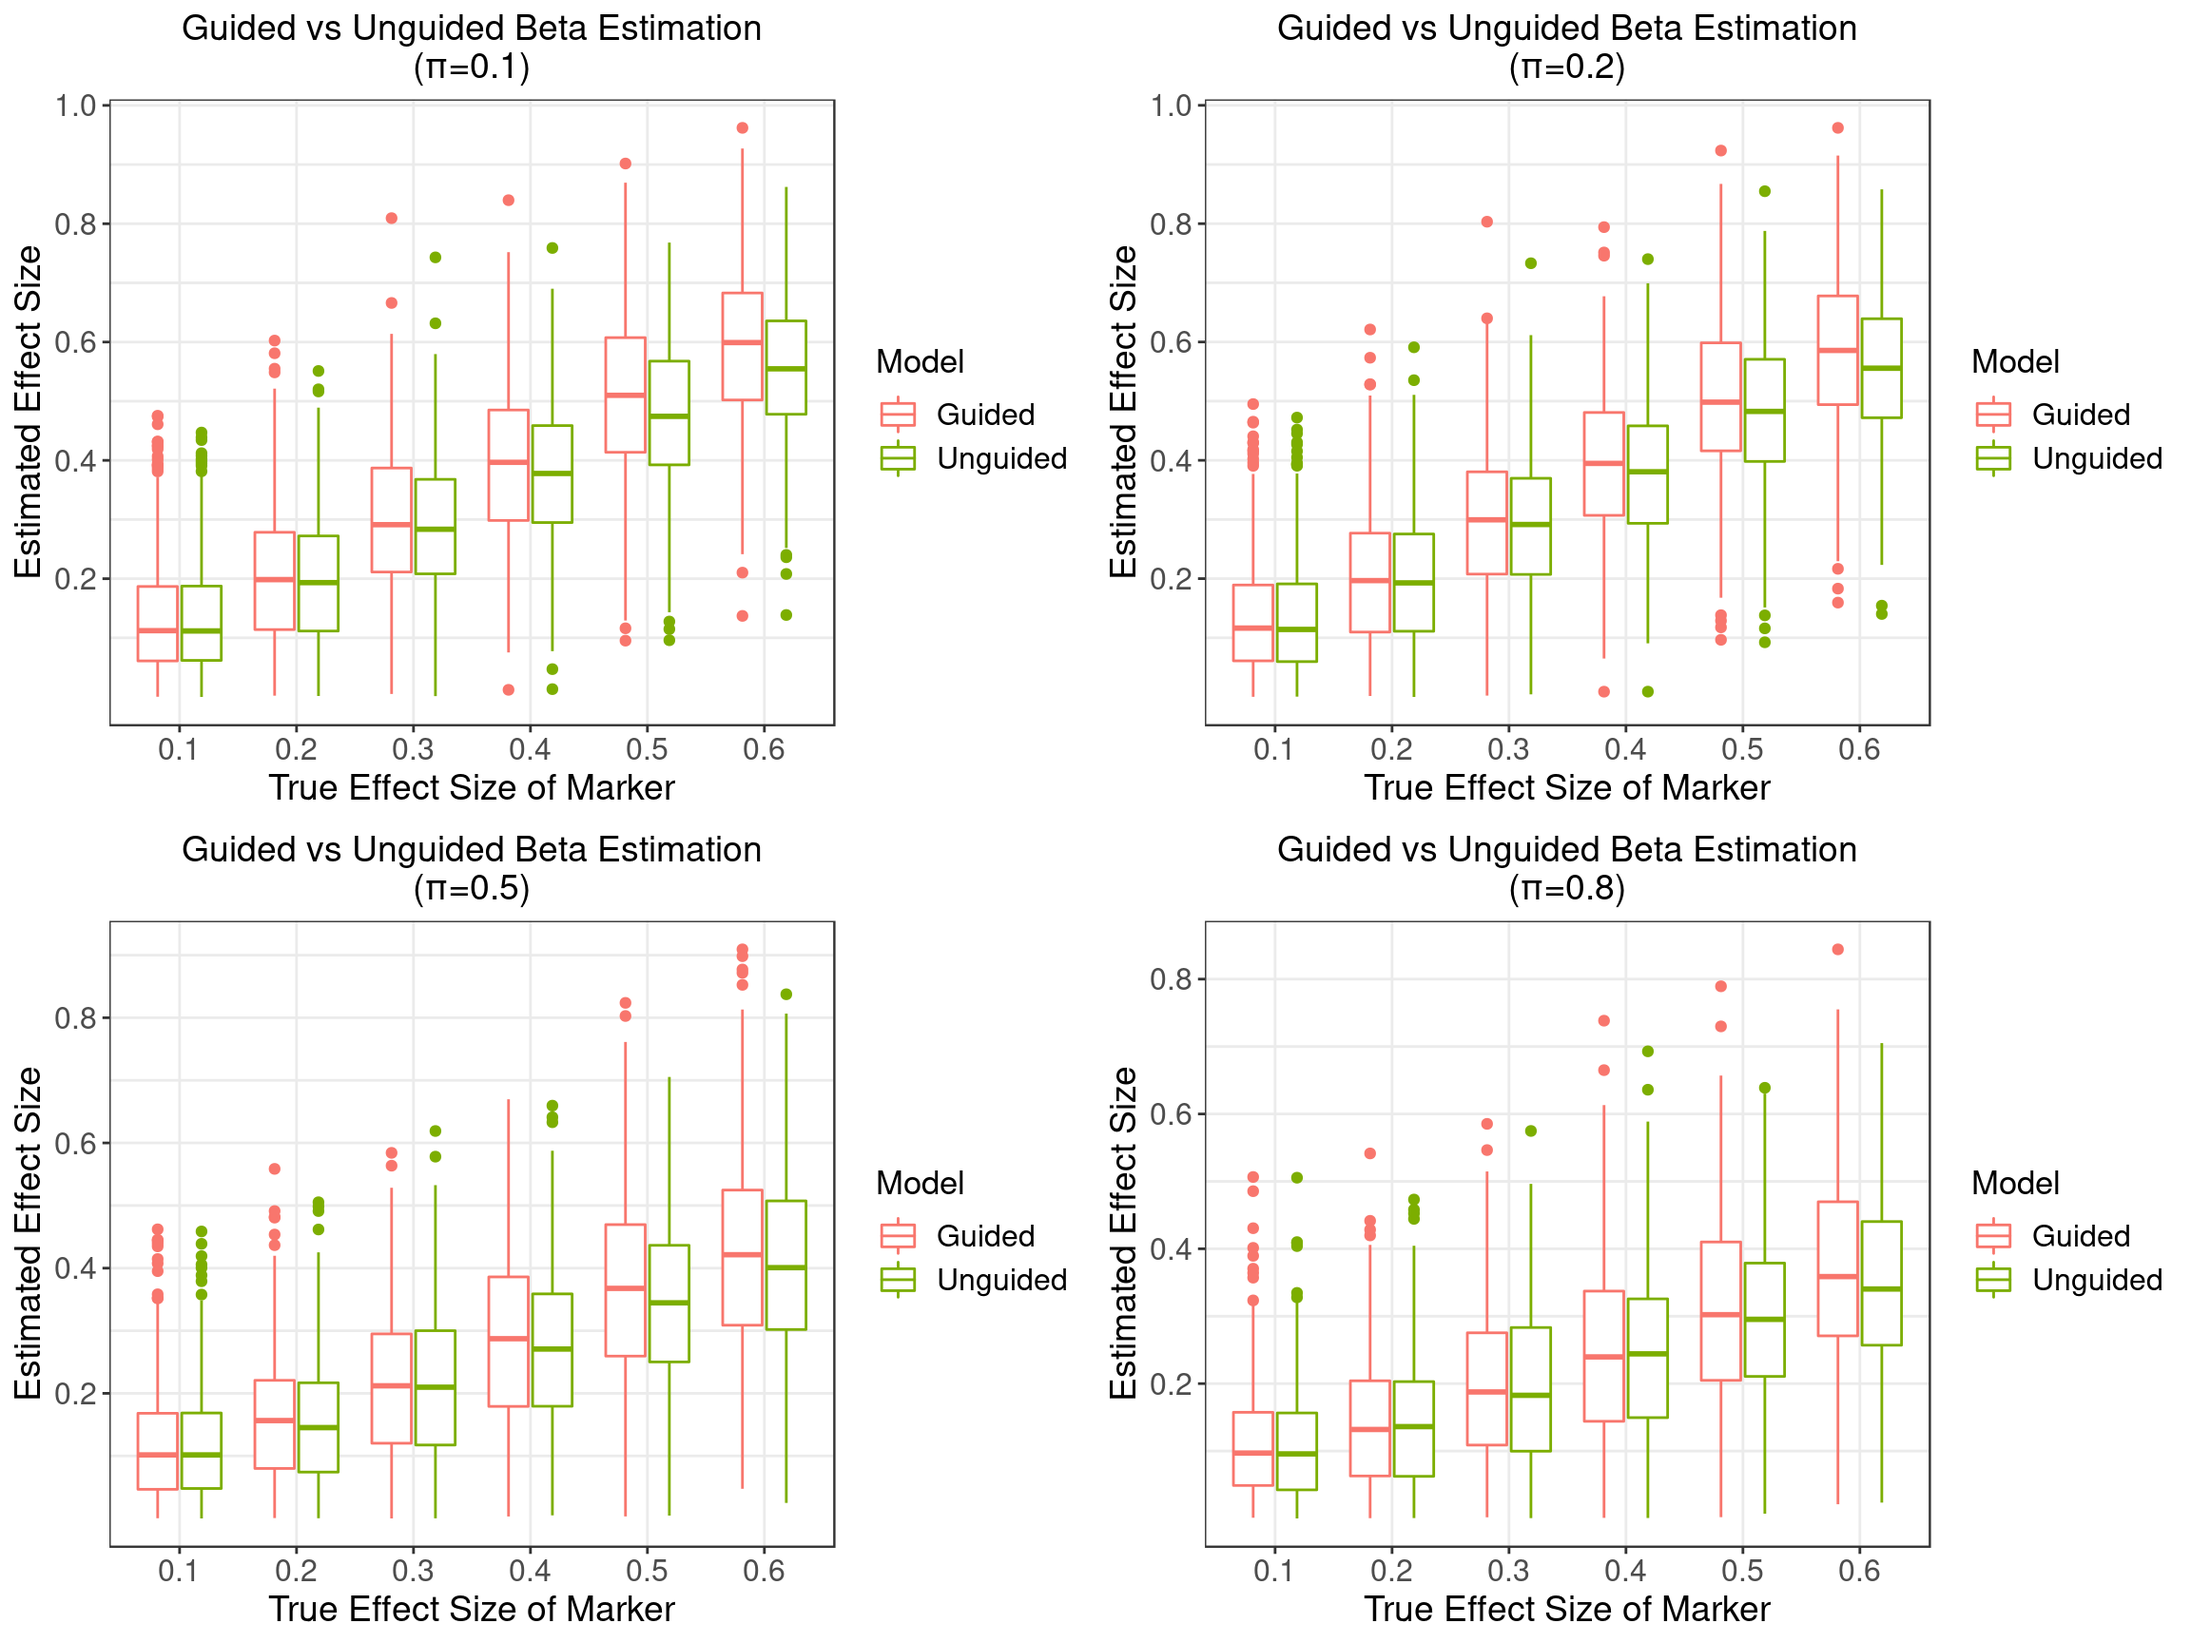
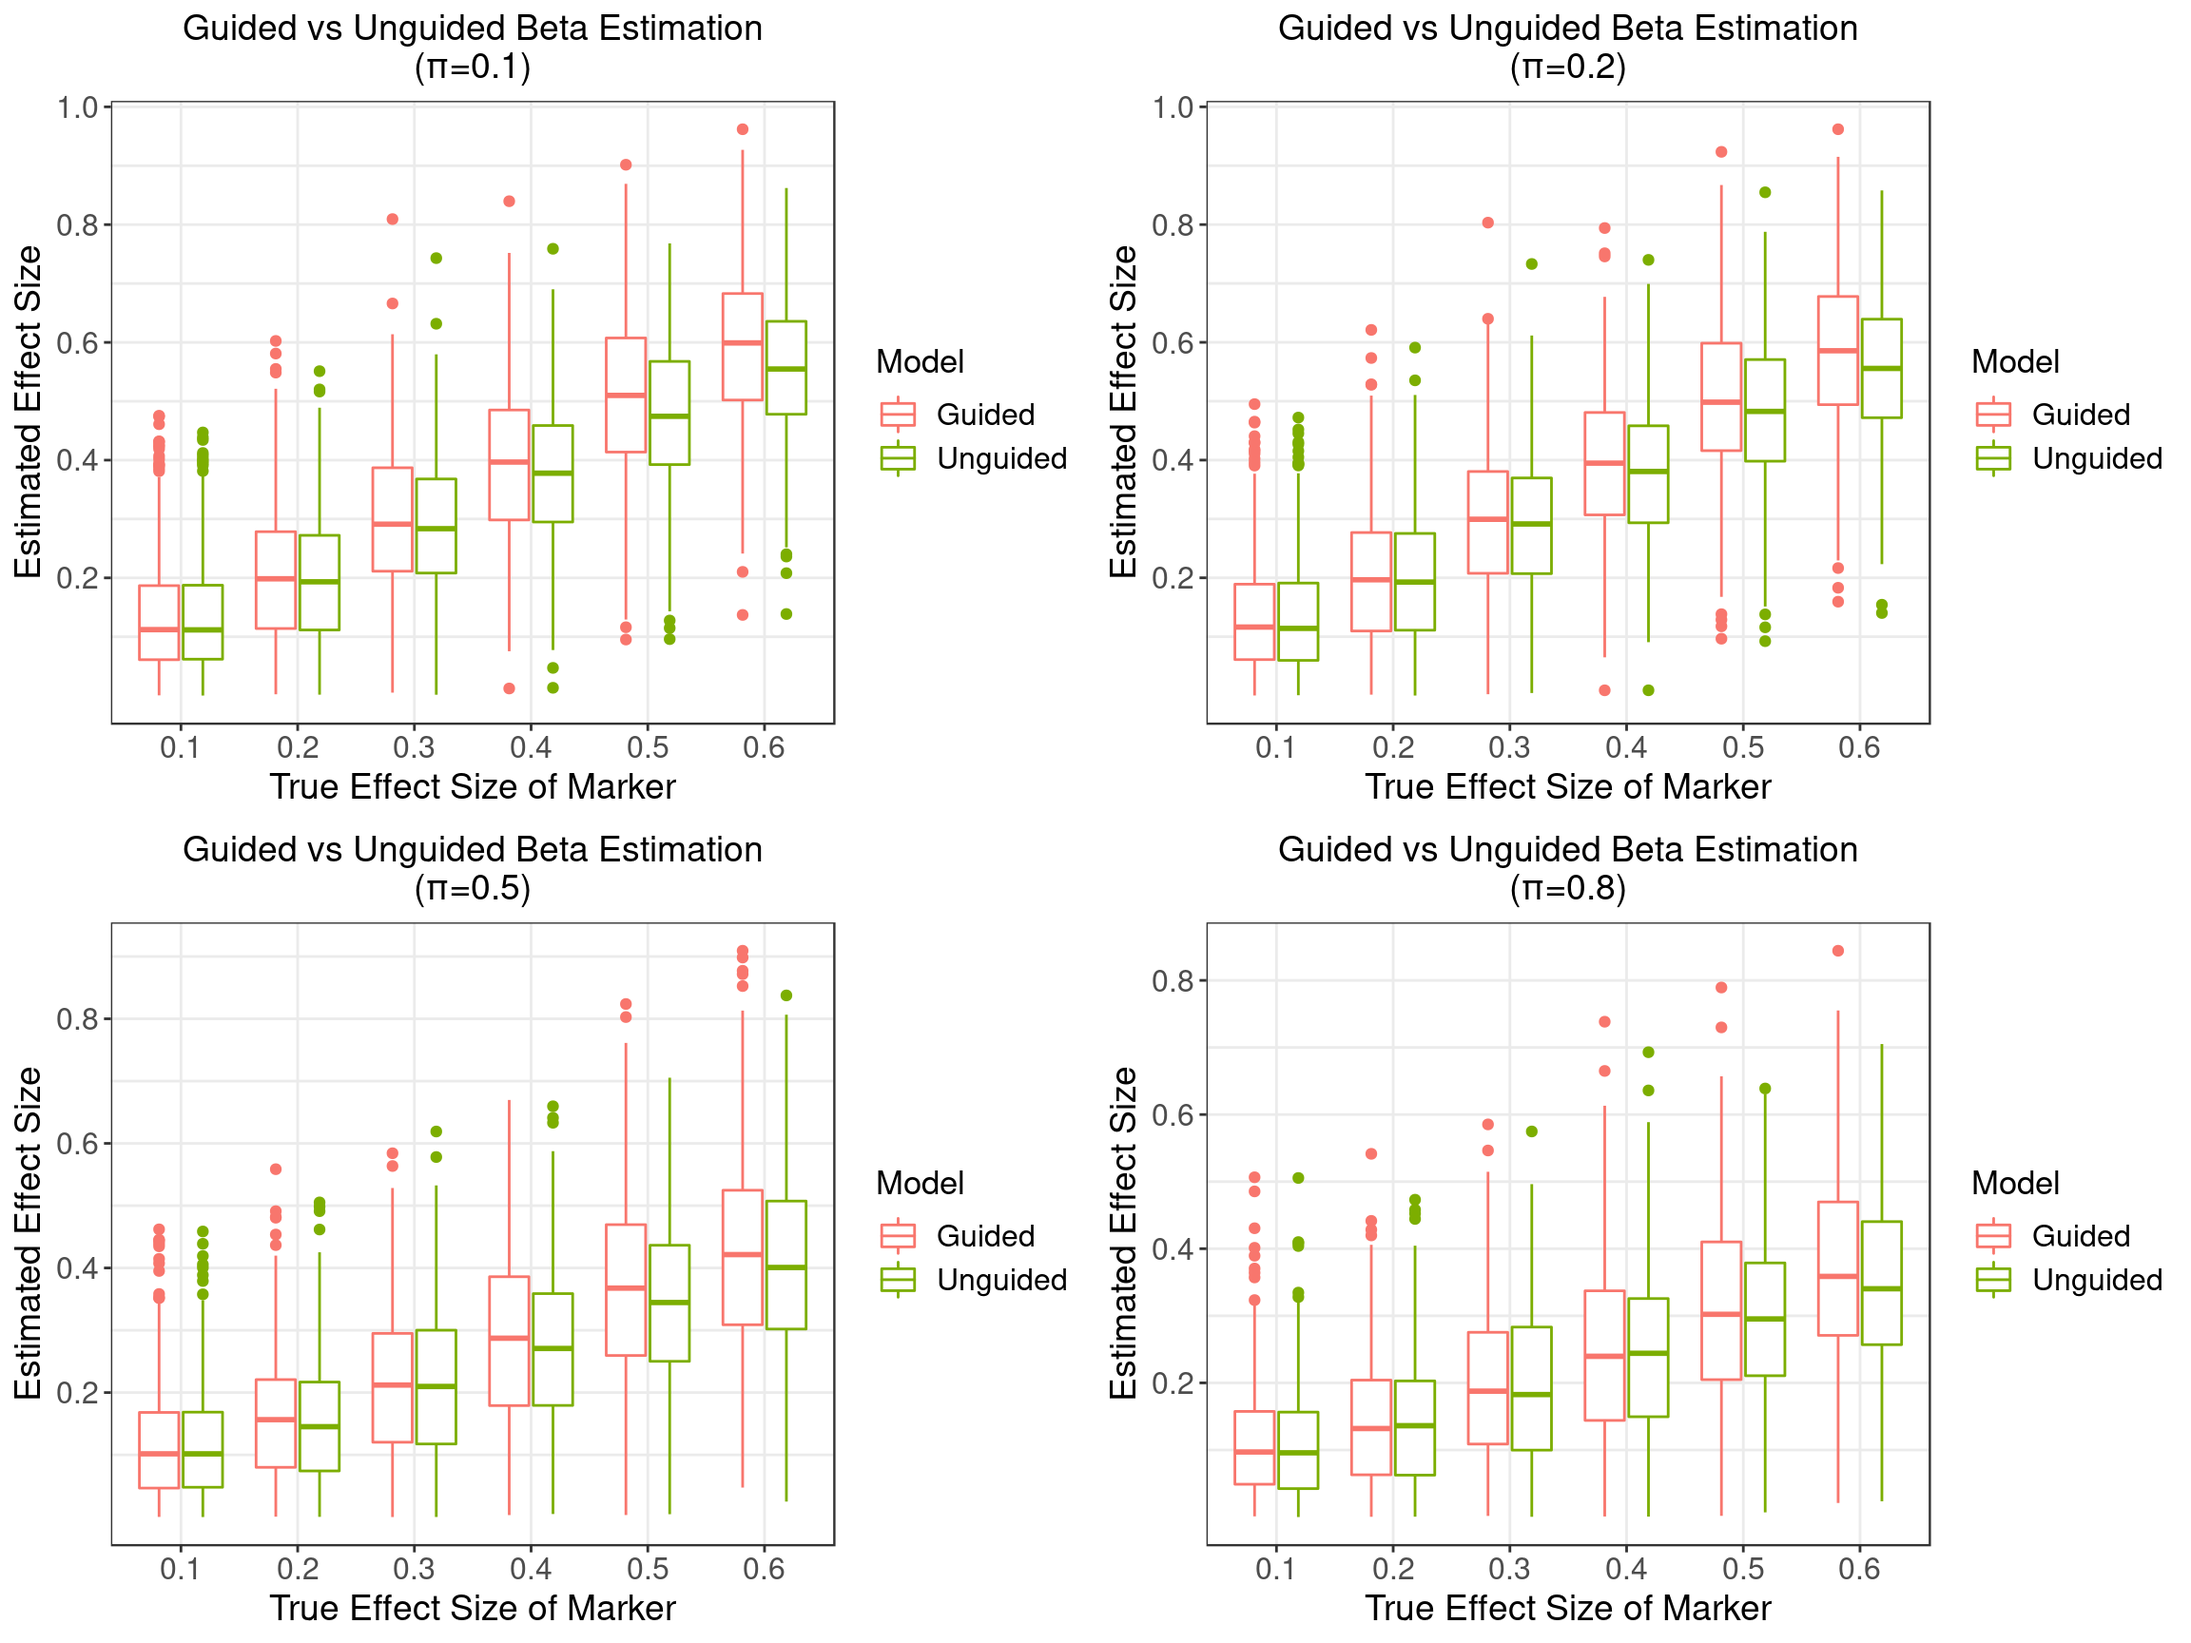
realistic simulations

diff --git a/docs/Simulation_realistic_settings.html b/docs/Simulation_realistic_settings.html
@@ -296,7 +296,7 @@ div.tocify {
 
 
 <h1 class="title toc-ignore">Evaluation of GSFA on Simulated Data</h1>
-<h3 class="subtitle"><em>– Multiple Markers, Multiple Factors</em></h3>
+<h3 class="subtitle"><em>– Realistic Settings</em></h3>
 <h4 class="author"><em>Yifan Zhou (<a href="mailto:zhouyf@uchicago.edu">zhouyf@uchicago.edu</a>)</em></h4>
 <h4 class="date"><em>2021-03-31</em></h4>
 
@@ -305,9 +305,9 @@ div.tocify {
 
 <div id="simulation-settings" class="section level1">
 <h1><span class="header-section-number">1</span> Simulation Settings</h1>
-<p>We simulated our data in a bottom-up fashion: <span class="math display">\[G_{im} \overset{i.i.d.}{\sim} \text{Bern}(0.2),\hspace{3mm} \Phi_{ik} \overset{i.i.d.}{\sim} N(0, 1) \Rightarrow Z = G \beta + \Phi\]</span> <span class="math display">\[ F_{jk} \sim \text{Bern}(\pi_j),\hspace{3mm}  U_{jk} \sim N(0, \sigma_w^2) \Rightarrow W = F \odot U\]</span> <span class="math display">\[E_{ij} \sim N(0,\psi_j), Z, W \Rightarrow Y = ZW^T+E\]</span> <span class="math inline">\(G \in \mathbb{R}^{N \times M}, \beta \in \mathbb{R}^{M \times K}, Z \in \mathbb{R}^{N \times K}, W \in \mathbb{R}^{P \times K}, Y \in \mathbb{R}^{N \times P}.\)</span></p>
+<p>We simulated our data in a bottom-up fashion: <span class="math display">\[G_{im} \overset{i.i.d.}{\sim} \text{Bern}(0.1),\hspace{3mm} \Phi_{ik} \overset{i.i.d.}{\sim} N(0, 1) \Rightarrow Z = G \beta + \Phi\]</span> <span class="math display">\[ F_{jk} \sim \text{Bern}(\pi_j),\hspace{3mm}  U_{jk} \sim N(0, \sigma_w^2) \Rightarrow W = F \odot U\]</span> <span class="math display">\[E_{ij} \sim N(0,\psi_j), Z, W \Rightarrow Y = ZW^T+E\]</span> <span class="math inline">\(G \in \mathbb{R}^{N \times M}, \beta \in \mathbb{R}^{M \times K}, Z \in \mathbb{R}^{N \times K}, W \in \mathbb{R}^{P \times K}, Y \in \mathbb{R}^{N \times P}.\)</span></p>
 <p>For simulation cases in this report,</p>
-<p>Sample size <span class="math inline">\(N = 400\)</span>, gene number <span class="math inline">\(P = 500\)</span>, factor number <span class="math inline">\(K = 10\)</span>, and guide/marker number <span class="math inline">\(M = 6\)</span>;<br />
+<p>Sample size <span class="math inline">\(N = 4000\)</span>, gene number <span class="math inline">\(P = 6000\)</span>, factor number <span class="math inline">\(K = 10\)</span>, and guide/marker number <span class="math inline">\(M = 6\)</span>;<br />
 <span class="math inline">\(\sigma_w^2 = 0.5\)</span>, matrix <span class="math inline">\(\beta\)</span> takes the following form:</p>
 <span class="math display">\[\begin{pmatrix}
 0.1 &amp; 0 &amp; 0 &amp; 0 &amp; 0 &amp; 0 &amp; 0 &amp; 0 &amp; 0 &amp; 0 \\
@@ -319,24 +319,24 @@ div.tocify {
 \end{pmatrix}\]</span>
 <p>The first 6 factors are each associated with a guide, with the effect sizes varying from 0.1 to 0.6, while the last 4 factors are not associated with any guides.</p>
 <p><strong>We explored 4 cases when the density parameter <span class="math inline">\(\pi_j\)</span> is the same across <span class="math inline">\(j\)</span> but takes a value from 0.1, 0.2, 0.5 to 0.8.</strong></p>
-<p>Under each scenario, 500 random datasets were simulated, and both guided and unguided GSFA models were performed on each dataset for 1000 iterations starting from SVD initialization; posterior means were averaged over the last 500 iterations.</p>
+<p>Under each scenario, 500 random datasets were simulated, and both guided and unguided GSFA models were performed on each dataset for 2000 iterations starting from SVD initialization; posterior means were averaged over the last 1000 iterations.</p>
 </div>
 <div id="estimation-of-effect-sizes-betas" class="section level1">
 <h1><span class="header-section-number">2</span> Estimation of Effect Sizes (<span class="math inline">\(\beta\)</span>s)</h1>
-<p><img src="Simulation_multi_markers_n_factors.beta_0.1_0.6_files/figure-html/gridplot_beta_reg-1.png" width="1152" style="display: block; margin: auto;" /></p>
+<p><img src="Simulation_realistic_settings_files/figure-html/gridplot_beta_reg-1.png" width="1152" style="display: block; margin: auto;" /></p>
 </div>
 <div id="estimation-of-factors-zs" class="section level1">
 <h1><span class="header-section-number">3</span> Estimation of Factors (<span class="math inline">\(Z\)</span>s)</h1>
 <p>We would like to evaluate how different our estimation of the factor matrix, <span class="math inline">\(\hat{Z}\)</span>, is from the true value <span class="math inline">\(Z\)</span>.<br />
 Since the order of latent factors is non-identifiable, we focus on <span class="math inline">\(ZZ^T\)</span> and evaluate its estimation error using <span class="math inline">\(||\hat{Z}\hat{Z}^T - ZZ^T||_F/N\)</span>, where <span class="math inline">\(||\cdot||_F\)</span> is the Frobenius norm, and <span class="math inline">\(N\)</span> is the number of rows (samples) in <span class="math inline">\(Z\)</span>.</p>
-<p><img src="Simulation_multi_markers_n_factors.beta_0.1_0.6_files/figure-html/plot_rmse_ZZT-1.png" width="768" style="display: block; margin: auto;" /></p>
+<p><img src="Simulation_realistic_settings_files/figure-html/plot_rmse_ZZT-1.png" width="768" style="display: block; margin: auto;" /></p>
 </div>
 <div id="beta-pip-calibration" class="section level1">
 <h1><span class="header-section-number">4</span> Beta PIP Calibration</h1>
 <div id="pi-0.2" class="section level2">
 <h2><span class="header-section-number">4.1</span> <span class="math inline">\(\pi\)</span> = 0.2</h2>
-<p><img src="Simulation_multi_markers_n_factors.beta_0.1_0.6_files/figure-html/unnamed-chunk-45-1.png" width="1152" style="display: block; margin: auto;" /></p>
-<p><img src="Simulation_multi_markers_n_factors.beta_0.1_0.6_files/figure-html/unnamed-chunk-46-1.png" width="576" style="display: block; margin: auto;" /></p>
+<p><img src="Simulation_realistic_settings_files/figure-html/unnamed-chunk-2-1.png" width="1152" style="display: block; margin: auto;" /></p>
+<p><img src="Simulation_realistic_settings_files/figure-html/unnamed-chunk-3-1.png" width="576" style="display: block; margin: auto;" /></p>
 </div>
 </div>
 <div id="gene-detection" class="section level1">
@@ -354,31 +354,24 @@ Since the order of latent factors is non-identifiable, we focus on <span class="
 <p>Alternatively, we can simply test each gene directly, measuring whether there is an difference in <span class="math inline">\(Y_j\)</span> between the two groups of samples under guide <span class="math inline">\(m\)</span> using Welch’s t-test.</p>
 <p>To obtain the following ROC curves, we varied the cutoff from 0 to 1 on both LFSR and t-test FDR values.</p>
 <p>The actual cutoff values used are (correspond to the datapoints on an ROC curve from left to right)</p>
-<p>0, 0.01, 0.05, 0.1, 0.15, 0.2, 0.25, 0.3, 0.35, 0.4, 0.45, 0.5, 0.55, 0.6, 0.65, 0.7, 0.75, 0.8, 0.9, 1</p>
-</div>
-<div id="pi-0.1" class="section level2">
-<h2><span class="header-section-number">5.2</span> <span class="math inline">\(\pi\)</span> = 0.1</h2>
-<p><img src="Simulation_multi_markers_n_factors.beta_0.1_0.6_files/figure-html/unnamed-chunk-48-1.png" width="768" style="display: block; margin: auto;" /></p>
-<p><img src="Simulation_multi_markers_n_factors.beta_0.1_0.6_files/figure-html/unnamed-chunk-50-1.png" width="768" style="display: block; margin: auto;" /></p>
-<p><img src="Simulation_multi_markers_n_factors.beta_0.1_0.6_files/figure-html/unnamed-chunk-51-1.png" width="960" style="display: block; margin: auto;" /></p>
+<p>0, 0.01, 0.05, 0.1, 0.2, 0.3, 0.4, 0.5, 0.6, 0.7, 0.8, 0.9, 0.95, 1</p>
 </div>
 <div id="pi-0.2-1" class="section level2">
-<h2><span class="header-section-number">5.3</span> <span class="math inline">\(\pi\)</span> = 0.2</h2>
-<p><img src="Simulation_multi_markers_n_factors.beta_0.1_0.6_files/figure-html/unnamed-chunk-53-1.png" width="768" style="display: block; margin: auto;" /></p>
-<p><img src="Simulation_multi_markers_n_factors.beta_0.1_0.6_files/figure-html/unnamed-chunk-55-1.png" width="768" style="display: block; margin: auto;" /></p>
-<p><img src="Simulation_multi_markers_n_factors.beta_0.1_0.6_files/figure-html/unnamed-chunk-56-1.png" width="960" style="display: block; margin: auto;" /></p>
+<h2><span class="header-section-number">5.2</span> <span class="math inline">\(\pi\)</span> = 0.2</h2>
+<div id="roc" class="section level3">
+<h3><span class="header-section-number">5.2.1</span> ROC</h3>
+<p><img src="Simulation_realistic_settings_files/figure-html/unnamed-chunk-5-1.png" width="768" style="display: block; margin: auto;" /></p>
 </div>
-<div id="pi-0.5" class="section level2">
-<h2><span class="header-section-number">5.4</span> <span class="math inline">\(\pi\)</span> = 0.5</h2>
-<p><img src="Simulation_multi_markers_n_factors.beta_0.1_0.6_files/figure-html/unnamed-chunk-58-1.png" width="768" style="display: block; margin: auto;" /></p>
-<p><img src="Simulation_multi_markers_n_factors.beta_0.1_0.6_files/figure-html/unnamed-chunk-60-1.png" width="768" style="display: block; margin: auto;" /></p>
-<p><img src="Simulation_multi_markers_n_factors.beta_0.1_0.6_files/figure-html/unnamed-chunk-61-1.png" width="960" style="display: block; margin: auto;" /></p>
+<div id="precision-recall" class="section level3">
+<h3><span class="header-section-number">5.2.2</span> Precision-Recall</h3>
+<p><img src="Simulation_realistic_settings_files/figure-html/unnamed-chunk-6-1.png" width="1152" style="display: block; margin: auto;" /></p>
 </div>
-<div id="pi-0.8" class="section level2">
-<h2><span class="header-section-number">5.5</span> <span class="math inline">\(\pi\)</span> = 0.8</h2>
-<p><img src="Simulation_multi_markers_n_factors.beta_0.1_0.6_files/figure-html/unnamed-chunk-63-1.png" width="768" style="display: block; margin: auto;" /></p>
-<p><img src="Simulation_multi_markers_n_factors.beta_0.1_0.6_files/figure-html/unnamed-chunk-65-1.png" width="768" style="display: block; margin: auto;" /></p>
-<p><img src="Simulation_multi_markers_n_factors.beta_0.1_0.6_files/figure-html/unnamed-chunk-66-1.png" width="960" style="display: block; margin: auto;" /></p>
+<div id="lfsr-calibration" class="section level3">
+<h3><span class="header-section-number">5.2.3</span> LFSR Calibration</h3>
+<p><img src="Simulation_realistic_settings_files/figure-html/unnamed-chunk-7-1.png" width="768" style="display: block; margin: auto;" /></p>
+<p><img src="Simulation_realistic_settings_files/figure-html/unnamed-chunk-8-1.png" width="960" style="display: block; margin: auto;" /></p>
+<p><img src="Simulation_realistic_settings_files/figure-html/unnamed-chunk-9-1.png" width="960" style="display: block; margin: auto;" /></p>
+</div>
 </div>
 </div>
 

diff --git a/docs/index.html b/docs/index.html
@@ -342,8 +342,9 @@ div.tocify {
 <div id="multiple-guides-multiple-factors" class="section level3">
 <h3>Multiple guides, multiple factors</h3>
 <ul>
-<li><a href="Simulation_multi_markers_n_factors.beta_0.1_0.6.html"><span class="math inline">\(\beta\)</span> = 0.1 to 0.6</a>;</li>
-<li><a href="Simulation_multi_markers_n_factors.beta_0.2_1.html"><span class="math inline">\(\beta\)</span> = 0.2 to 1</a>;</li>
+<li><a href="Simulation_multi_markers_n_factors.beta_0.1_0.6.html"><span class="math inline">\(\beta\)</span> = 0.1 to 0.6, N=400, P=500</a>;</li>
+<li><a href="Simulation_multi_markers_n_factors.beta_0.2_1.html"><span class="math inline">\(\beta\)</span> = 0.2 to 1, N=400, P=500</a>;</li>
+<li><a href="Simulation_realistic_settings.html"><span class="math inline">\(\beta\)</span> = 0.1 to 0.6, N=4000, P=6000</a>;</li>
 </ul>
 </div>
 </div>
